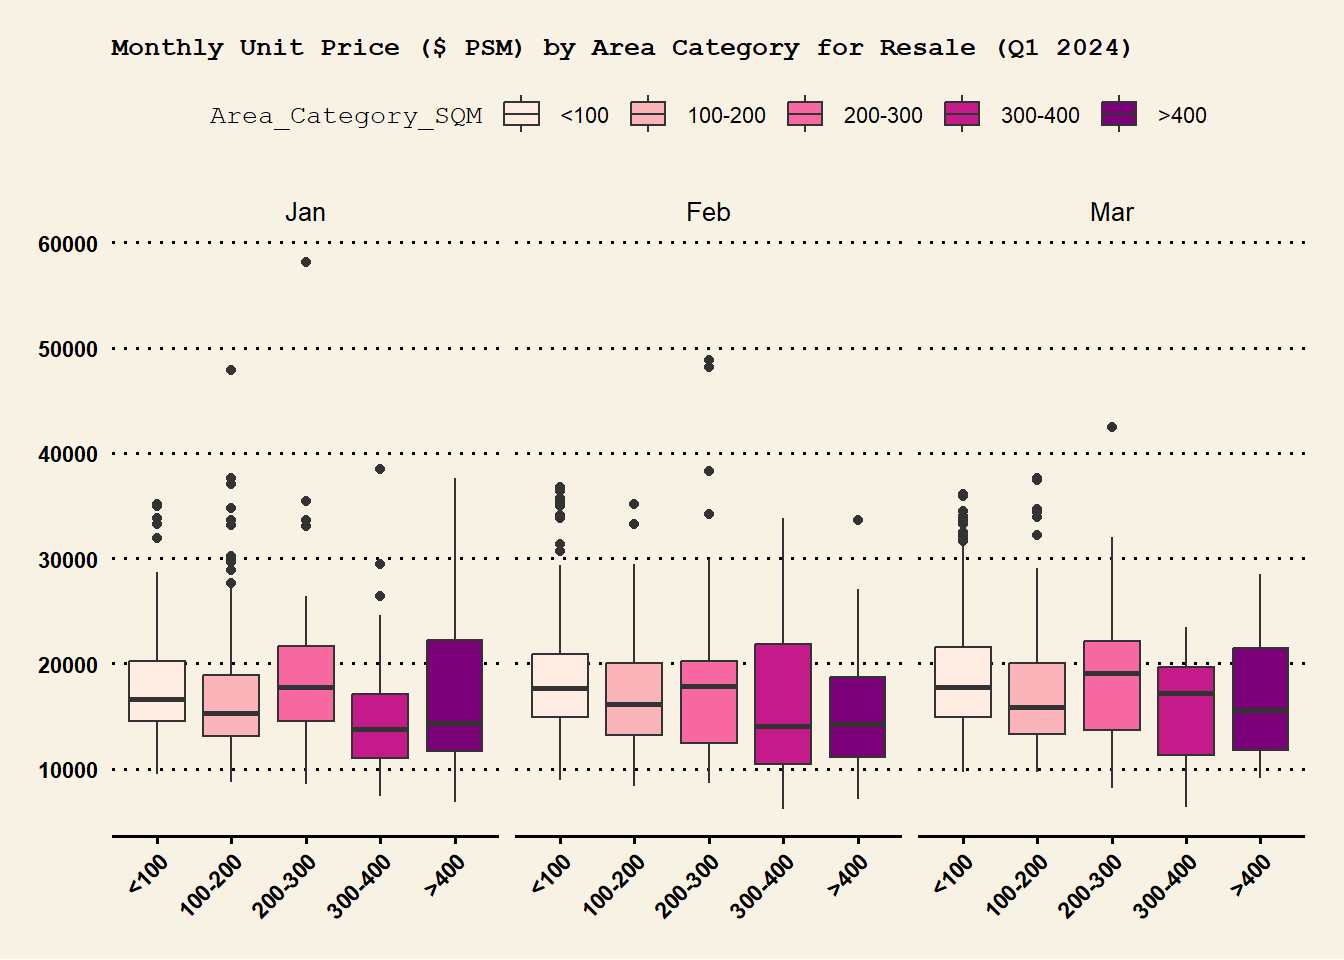
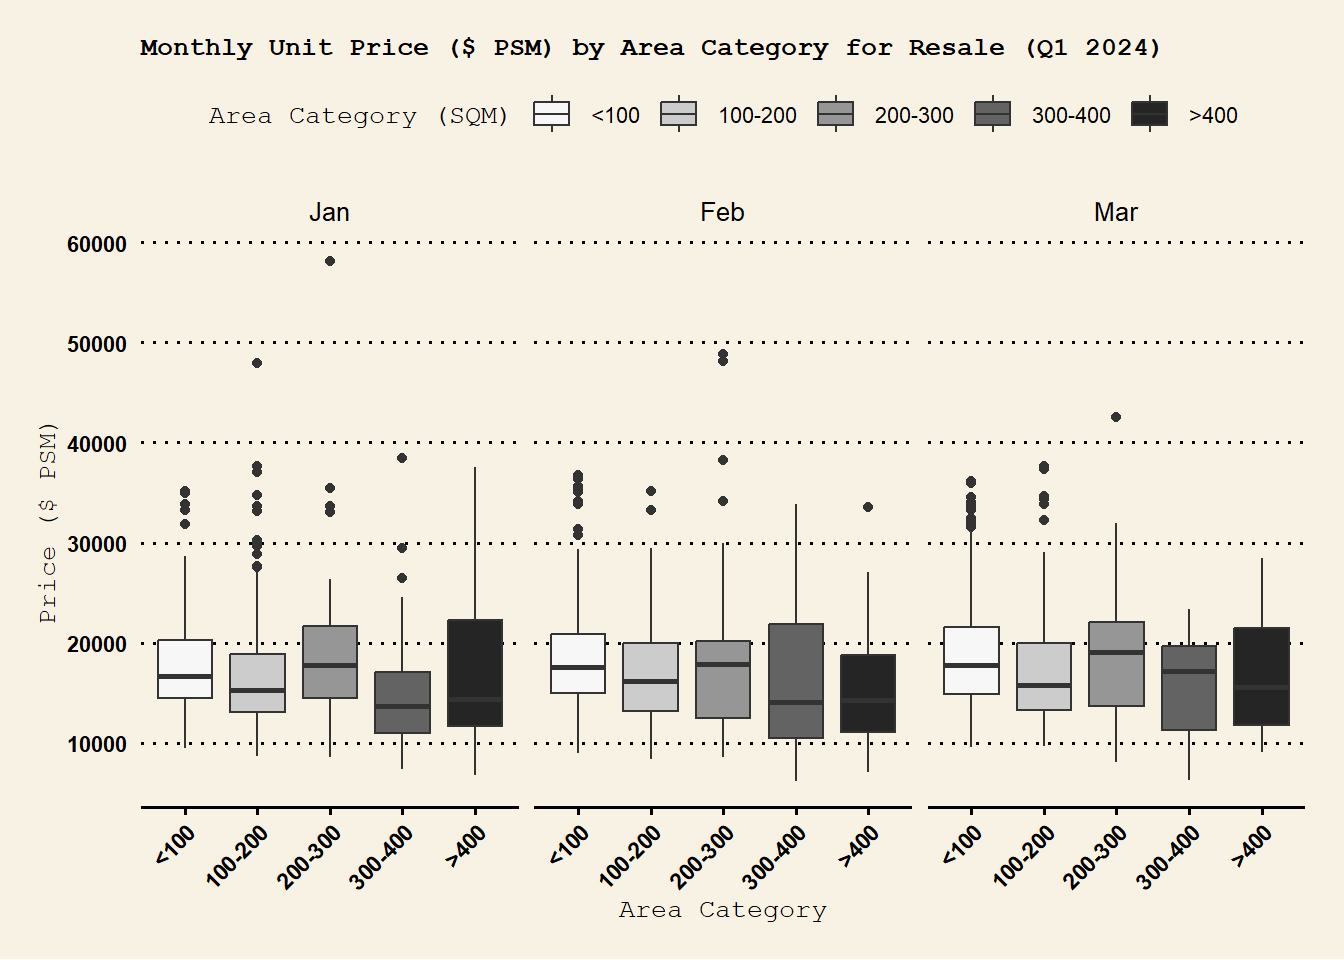
commit after editing take home Ex02

diff --git a/_site/Take-home_Ex/Take-home_Ex02/Take-home_Ex02.html b/_site/Take-home_Ex/Take-home_Ex02/Take-home_Ex02.html
@@ -247,6 +247,7 @@ pre > code.sourceCode > span > a:first-child::before { text-decoration: underlin
   <li><a href="#makeover-visualisation" id="toc-makeover-visualisation" class="nav-link" data-scroll-target="#makeover-visualisation">4.2 Makeover Visualisation</a></li>
   </ul></li>
   <li><a href="#conclusion" id="toc-conclusion" class="nav-link" data-scroll-target="#conclusion">5. Conclusion</a></li>
+  <li><a href="#references" id="toc-references" class="nav-link" data-scroll-target="#references">6. References</a></li>
   </ul>
 </nav>
     </div>
@@ -280,7 +281,7 @@ pre > code.sourceCode > span > a:first-child::before { text-decoration: underlin
     <div>
     <div class="quarto-title-meta-heading">Modified</div>
     <div class="quarto-title-meta-contents">
-      <p class="date-modified">May 2, 2024</p>
+      <p class="date-modified">May 4, 2024</p>
     </div>
   </div>
     
@@ -409,7 +410,7 @@ $ `Planning Region`             &lt;chr&gt; "Central Region", "East Region", "No
 $ `Planning Area`               &lt;chr&gt; "Bukit Merah", "Bedok", "Yishun", "Yishu…</code></pre>
 </div>
 </div>
-<p>Space in column names will create error when used as it is in R code. Hence, replacing them with underscore is necessary. Use <code>gsub()</code> to replace space with underscores and use <code>rename_with()</code> function from <strong>dplyr</strong> <img src="dplyr.png" class="img-fluid" width="53"> to rename all the columns with new column names.</p>
+<p>Replacing space in colume name with underscore. Use <code>gsub()</code> to replace space with underscores and use <code>rename_with()</code> function from <strong>dplyr</strong> <img src="dplyr.png" class="img-fluid" width="53"> to rename all the columns with new column names.</p>
 <div class="cell">
 <div class="sourceCode cell-code" id="cb8"><pre class="sourceCode r code-with-copy"><code class="sourceCode r"><span id="cb8-1"><a href="#cb8-1" aria-hidden="true" tabindex="-1"></a>realis_merge <span class="ot">&lt;-</span> realis_merge <span class="sc">%&gt;%</span></span>
 <span id="cb8-2"><a href="#cb8-2" aria-hidden="true" tabindex="-1"></a>  <span class="fu">rename_with</span>(<span class="sc">~</span> <span class="fu">gsub</span>(<span class="st">" "</span>, <span class="st">"_"</span>, .), <span class="fu">everything</span>())</span></code><button title="Copy to Clipboard" class="code-copy-button"><i class="bi"></i></button></pre></div>
@@ -506,7 +507,7 @@ $ Month                       &lt;ord&gt; Jan, Jan, Jan, Jan, Jan, Jan, Jan, Jan
 </section>
 <section id="create-area-category-column" class="level3">
 <h3 class="anchored" data-anchor-id="create-area-category-column">2.3.4 Create Area Category Column</h3>
-<p>Use <code>mutate()</code>, <code>ifelse()</code> and <code>is.na()</code> to replace NA (missing values) with 0. Next, use <code>mutate()</code> and <code>cut()</code> functions to create area Catergory column (“&lt;100”, “100-200”, “200-300”, “300-400”, “&gt;400”).</p>
+<p>Use <code>mutate()</code>, <code>ifelse()</code> and <code>is.na()</code> to replace NA (missing values) with 0. Next, use <code>mutate()</code> and <code>cut()</code> functions to create area Category column (“&lt;100”, “100-200”, “200-300”, “300-400”, “&gt;400”).</p>
 <div class="tabset-margin-container"></div><div class="panel-tabset">
 <ul class="nav nav-tabs" role="tablist"><li class="nav-item" role="presentation"><a class="nav-link active" id="tabset-3-1-tab" data-bs-toggle="tab" data-bs-target="#tabset-3-1" role="tab" aria-controls="tabset-3-1" aria-selected="true">Code</a></li><li class="nav-item" role="presentation"><a class="nav-link" id="tabset-3-2-tab" data-bs-toggle="tab" data-bs-target="#tabset-3-2" role="tab" aria-controls="tabset-3-2" aria-selected="false">Data Glimpse</a></li></ul>
 <div class="tab-content">
@@ -577,7 +578,7 @@ $ Area_Category_SQM           &lt;fct&gt; &lt;100, &lt;100, &lt;100, &lt;100, &l
 <i class="callout-icon"></i>
 </div>
 <div class="callout-title-container flex-fill">
-Insights
+Insights (Extracted from Original Visualisation Submission)
 </div>
 </div>
 <div class="callout-body-container callout-body">
@@ -591,12 +592,13 @@ Insights
 <ol type="1">
 <li><p>Boxplot for Jan, Feb and Mar are not on same Y axis scale which may be hard to compare the ranges.</p></li>
 <li><p>Boxplot for 3 months in 2024Q1 are labelled as 2024-01-01, 2024-02-01, 2024-03-01 which does not represent the whole month.</p></li>
-<li><p>Line charts are labelled &lt;100, 100-200, 200-300, 300-400, &gt;400 but at first glance it is not clear what these values means. The clarity could be improved by adding a legend or updating labels, for example, from &lt;100 to &lt;100 SQM.</p></li>
+<li><p>Line graphs are labelled &lt;100, 100-200, 200-300, 300-400, &gt;400 but at first glance it is not clear what these values means. The clarity could be improved by adding a legend or updating labels, for example, from &lt;100 to &lt;100 SQM.</p></li>
+<li><p>For line graph, it is not immediately clear at first glance how many quarters the line passes through without looking at x-axis since there is no indicator on the line at each quarter.</p></li>
 </ol>
 <p><u>Aesthetics</u></p>
 <ol type="1">
 <li><p>X axis, Y axis and chart labels (such as 200-300,2024-01-01) are on smaller font size and may be hard to read.</p></li>
-<li><p>Boxplot colors help to distinguish each area category clearly. However, using too many colors on boxplot may be distracting to readers. Suggest using a color palette which does not produce too many contrasting colors.</p></li>
+<li><p>Boxplot colors help to distinguish each area category clearly. However, using too many colors on boxplot may be distracting to readers. Suggest using a color palette which does not produce too many vivid contrasting colors.</p></li>
 <li><p>5 line charts for Quarterly Average Unit Price ($PSM) by Area Category for Resale can be plotted on same Y axis as one chart. This would give a more compact and clean look.</p></li>
 </ol>
 </section>
@@ -608,6 +610,7 @@ Insights
 </section>
 <section id="makeover-visualisation" class="level2">
 <h2 class="anchored" data-anchor-id="makeover-visualisation">4.2 Makeover Visualisation</h2>
+<p>For <u>Quarterly Average Unit Price ($ PSM) by Area Category for Resale</u> plot, Singapore Privare Property Reslae data is need to be prepared first. To get <strong>Resale data</strong> only, use <code>filter()</code> function from <strong>dplyr</strong> to filter from realis_merge data. Use <code>ggplot()</code>, <code>geom_bar()</code> and <code>geom_point()</code> from <strong>ggplot2</strong> <img src="logo.png" class="img-fluid" width="46"> to plot the chart. More functions from ggplot2 are used: <code>labs()</code> functions from ggplot2 are used to set chart title. Use <code>guides()</code> and <code>guide_legend()</code> to update legend title. Use <code>theme()</code> to set text size of chart title, axis text, legend text and legend title. Use <code>theme_wsj()</code> from <strong>ggthemes</strong> to set Wall Street Journal theme.</p>
 <div class="tabset-margin-container"></div><div class="panel-tabset">
 <ul class="nav nav-tabs" role="tablist"><li class="nav-item" role="presentation"><a class="nav-link active" id="tabset-4-1-tab" data-bs-toggle="tab" data-bs-target="#tabset-4-1" role="tab" aria-controls="tabset-4-1" aria-selected="true">Plot</a></li><li class="nav-item" role="presentation"><a class="nav-link" id="tabset-4-2-tab" data-bs-toggle="tab" data-bs-target="#tabset-4-2" role="tab" aria-controls="tabset-4-2" aria-selected="false">Code</a></li></ul>
 <div class="tab-content">
@@ -625,7 +628,7 @@ Insights
 <div id="tabset-4-2" class="tab-pane" role="tabpanel" aria-labelledby="tabset-4-2-tab">
 <div class="cell">
 <div class="sourceCode cell-code" id="cb17"><pre class="sourceCode r code-with-copy"><code class="sourceCode r"><span id="cb17-1"><a href="#cb17-1" aria-hidden="true" tabindex="-1"></a>resale_data <span class="ot">&lt;-</span> realis_merge <span class="sc">%&gt;%</span></span>
-<span id="cb17-2"><a href="#cb17-2" aria-hidden="true" tabindex="-1"></a>  <span class="fu">filter</span>(<span class="st">`</span><span class="at">Type_of_Sale</span><span class="st">`</span> <span class="sc">==</span> <span class="st">"Resale"</span>) </span>
+<span id="cb17-2"><a href="#cb17-2" aria-hidden="true" tabindex="-1"></a>  <span class="fu">filter</span>(Type_of_Sale <span class="sc">==</span> <span class="st">"Resale"</span>) </span>
 <span id="cb17-3"><a href="#cb17-3" aria-hidden="true" tabindex="-1"></a></span>
 <span id="cb17-4"><a href="#cb17-4" aria-hidden="true" tabindex="-1"></a>avg_price_by_quarter_resale <span class="ot">&lt;-</span> resale_data <span class="sc">%&gt;%</span></span>
 <span id="cb17-5"><a href="#cb17-5" aria-hidden="true" tabindex="-1"></a>  <span class="fu">group_by</span>(Area_Category_SQM, Quarter) <span class="sc">%&gt;%</span></span>
@@ -638,18 +641,22 @@ Insights
 <span id="cb17-12"><a href="#cb17-12" aria-hidden="true" tabindex="-1"></a>  <span class="fu">labs</span>(<span class="at">title =</span> <span class="st">"Quarterly Average Unit Price ($ PSM) by Area Category for Resale"</span>,</span>
 <span id="cb17-13"><a href="#cb17-13" aria-hidden="true" tabindex="-1"></a>       <span class="at">x =</span> <span class="st">"Quarter"</span>,</span>
 <span id="cb17-14"><a href="#cb17-14" aria-hidden="true" tabindex="-1"></a>       <span class="at">y =</span> <span class="st">"Average Price ($ PSM)"</span>) <span class="sc">+</span></span>
-<span id="cb17-15"><a href="#cb17-15" aria-hidden="true" tabindex="-1"></a>  <span class="fu">theme_wsj</span>() <span class="sc">+</span></span>
-<span id="cb17-16"><a href="#cb17-16" aria-hidden="true" tabindex="-1"></a>  <span class="fu">theme</span>(<span class="at">plot.title =</span> <span class="fu">element_text</span>(<span class="at">size =</span> <span class="fu">rel</span>(<span class="fl">0.4</span>)),  </span>
-<span id="cb17-17"><a href="#cb17-17" aria-hidden="true" tabindex="-1"></a>        <span class="at">axis.text.x =</span> <span class="fu">element_text</span>(<span class="at">size =</span> <span class="fu">rel</span>(<span class="fl">0.7</span>)),  </span>
-<span id="cb17-18"><a href="#cb17-18" aria-hidden="true" tabindex="-1"></a>        <span class="at">axis.text.y =</span> <span class="fu">element_text</span>(<span class="at">size =</span> <span class="fu">rel</span>(<span class="fl">0.7</span>)),</span>
-<span id="cb17-19"><a href="#cb17-19" aria-hidden="true" tabindex="-1"></a>        <span class="at">legend.text =</span> <span class="fu">element_text</span>(<span class="at">size =</span> <span class="fu">rel</span>(<span class="fl">0.7</span>)),</span>
-<span id="cb17-20"><a href="#cb17-20" aria-hidden="true" tabindex="-1"></a>        <span class="at">legend.title =</span> <span class="fu">element_text</span>(<span class="at">size =</span> <span class="fu">rel</span>(<span class="fl">0.4</span>)))</span>
-<span id="cb17-21"><a href="#cb17-21" aria-hidden="true" tabindex="-1"></a></span>
-<span id="cb17-22"><a href="#cb17-22" aria-hidden="true" tabindex="-1"></a>p_line_resale</span></code><button title="Copy to Clipboard" class="code-copy-button"><i class="bi"></i></button></pre></div>
+<span id="cb17-15"><a href="#cb17-15" aria-hidden="true" tabindex="-1"></a>  <span class="fu">guides</span>(<span class="at">color =</span> <span class="fu">guide_legend</span>(<span class="at">title =</span> <span class="st">"Area Category (SQM)"</span>))<span class="sc">+</span></span>
+<span id="cb17-16"><a href="#cb17-16" aria-hidden="true" tabindex="-1"></a>  <span class="fu">theme_wsj</span>() <span class="sc">+</span></span>
+<span id="cb17-17"><a href="#cb17-17" aria-hidden="true" tabindex="-1"></a>  <span class="fu">theme</span>(<span class="at">plot.title =</span> <span class="fu">element_text</span>(<span class="at">size =</span> <span class="fu">rel</span>(<span class="fl">0.4</span>)),  </span>
+<span id="cb17-18"><a href="#cb17-18" aria-hidden="true" tabindex="-1"></a>        <span class="at">axis.text.x =</span> <span class="fu">element_text</span>(<span class="at">size =</span> <span class="fu">rel</span>(<span class="fl">0.7</span>)),  </span>
+<span id="cb17-19"><a href="#cb17-19" aria-hidden="true" tabindex="-1"></a>        <span class="at">axis.text.y =</span> <span class="fu">element_text</span>(<span class="at">size =</span> <span class="fu">rel</span>(<span class="fl">0.7</span>)),</span>
+<span id="cb17-20"><a href="#cb17-20" aria-hidden="true" tabindex="-1"></a>        <span class="at">axis.title.x =</span> <span class="fu">element_text</span>(<span class="at">size =</span> <span class="fu">rel</span>(<span class="fl">0.4</span>)),</span>
+<span id="cb17-21"><a href="#cb17-21" aria-hidden="true" tabindex="-1"></a>        <span class="at">axis.title.y =</span> <span class="fu">element_text</span>(<span class="at">size =</span> <span class="fu">rel</span>(<span class="fl">0.4</span>)),</span>
+<span id="cb17-22"><a href="#cb17-22" aria-hidden="true" tabindex="-1"></a>        <span class="at">legend.text =</span> <span class="fu">element_text</span>(<span class="at">size =</span> <span class="fu">rel</span>(<span class="fl">0.7</span>)),</span>
+<span id="cb17-23"><a href="#cb17-23" aria-hidden="true" tabindex="-1"></a>        <span class="at">legend.title =</span> <span class="fu">element_text</span>(<span class="at">size =</span> <span class="fu">rel</span>(<span class="fl">0.4</span>)))</span>
+<span id="cb17-24"><a href="#cb17-24" aria-hidden="true" tabindex="-1"></a></span>
+<span id="cb17-25"><a href="#cb17-25" aria-hidden="true" tabindex="-1"></a>p_line_resale</span></code><button title="Copy to Clipboard" class="code-copy-button"><i class="bi"></i></button></pre></div>
 </div>
 </div>
 </div>
 </div>
+<p>Next, <u>Monthly Unit Price ($ PSM) by Area Category for Resale (Q1 2024)</u> plot will be remake and we need to prepare Resale data for first quarter of 2024. To get <strong>2024 Quarter 1</strong> data only, use <code>filter()</code> function from <strong>dplyr</strong> to filter from resale_data. Use <code>ggplot()</code>, <code>geom_boxplot()</code> and <code>geom_jitter()</code> from ggplot2 to plot the chart. <code>facet_wrap()</code> is used to chart 3 months data side by side: Jan and Feb followed by Mar.&nbsp;More functions from ggplot2 are used: <code>labs()</code> functions from ggplot2 are used to set chart title. Use <code>guides()</code> and <code>guide_legend()</code> to update legend title. Use <code>theme()</code> to set text size of chart title, axis text, legend text and legend title. Use <code>theme_wsj()</code> from <strong>ggthemes</strong> to set Wall Street Journal theme. <code>scale_fill_brewer()</code> is used to color the boxplots.</p>
 <div class="tabset-margin-container"></div><div class="panel-tabset">
 <ul class="nav nav-tabs" role="tablist"><li class="nav-item" role="presentation"><a class="nav-link active" id="tabset-5-1-tab" data-bs-toggle="tab" data-bs-target="#tabset-5-1" role="tab" aria-controls="tabset-5-1" aria-selected="true">Plot</a></li><li class="nav-item" role="presentation"><a class="nav-link" id="tabset-5-2-tab" data-bs-toggle="tab" data-bs-target="#tabset-5-2" role="tab" aria-controls="tabset-5-2" aria-selected="false">Code</a></li></ul>
 <div class="tab-content">
@@ -676,14 +683,17 @@ Insights
 <span id="cb18-8"><a href="#cb18-8" aria-hidden="true" tabindex="-1"></a>  <span class="fu">labs</span>(<span class="at">title =</span> <span class="st">"Monthly Unit Price ($ PSM) by Area Category for Resale (Q1 2024)"</span>,</span>
 <span id="cb18-9"><a href="#cb18-9" aria-hidden="true" tabindex="-1"></a>       <span class="at">x =</span> <span class="st">"Area Category"</span>,</span>
 <span id="cb18-10"><a href="#cb18-10" aria-hidden="true" tabindex="-1"></a>       <span class="at">y =</span> <span class="st">"Price ($ PSM)"</span>) <span class="sc">+</span></span>
-<span id="cb18-11"><a href="#cb18-11" aria-hidden="true" tabindex="-1"></a>  <span class="fu">theme_wsj</span>() <span class="sc">+</span></span>
-<span id="cb18-12"><a href="#cb18-12" aria-hidden="true" tabindex="-1"></a>  <span class="fu">theme</span>(<span class="at">plot.title =</span> <span class="fu">element_text</span>(<span class="at">size =</span> <span class="fu">rel</span>(<span class="fl">0.4</span>)),  </span>
-<span id="cb18-13"><a href="#cb18-13" aria-hidden="true" tabindex="-1"></a>        <span class="at">axis.text.x =</span> <span class="fu">element_text</span>(<span class="at">angle =</span> <span class="dv">45</span>, <span class="at">hjust =</span> <span class="dv">1</span>, <span class="at">size =</span> <span class="fu">rel</span>(<span class="fl">0.7</span>)),  </span>
-<span id="cb18-14"><a href="#cb18-14" aria-hidden="true" tabindex="-1"></a>        <span class="at">axis.text.y =</span> <span class="fu">element_text</span>(<span class="at">size =</span> <span class="fu">rel</span>(<span class="fl">0.7</span>)),</span>
-<span id="cb18-15"><a href="#cb18-15" aria-hidden="true" tabindex="-1"></a>        <span class="at">legend.text =</span> <span class="fu">element_text</span>(<span class="at">size =</span> <span class="fu">rel</span>(<span class="fl">0.7</span>)),</span>
-<span id="cb18-16"><a href="#cb18-16" aria-hidden="true" tabindex="-1"></a>        <span class="at">legend.title =</span> <span class="fu">element_text</span>(<span class="at">size =</span> <span class="fu">rel</span>(<span class="fl">0.4</span>)))<span class="sc">+</span></span>
-<span id="cb18-17"><a href="#cb18-17" aria-hidden="true" tabindex="-1"></a>  <span class="fu">scale_fill_brewer</span>(<span class="at">palette =</span> <span class="st">"RdPu"</span>)</span>
-<span id="cb18-18"><a href="#cb18-18" aria-hidden="true" tabindex="-1"></a>p_box_resale</span></code><button title="Copy to Clipboard" class="code-copy-button"><i class="bi"></i></button></pre></div>
+<span id="cb18-11"><a href="#cb18-11" aria-hidden="true" tabindex="-1"></a>  <span class="fu">guides</span>(<span class="at">fill =</span> <span class="fu">guide_legend</span>(<span class="at">title =</span> <span class="st">"Area Category (SQM)"</span>))<span class="sc">+</span></span>
+<span id="cb18-12"><a href="#cb18-12" aria-hidden="true" tabindex="-1"></a>  <span class="fu">theme_wsj</span>() <span class="sc">+</span></span>
+<span id="cb18-13"><a href="#cb18-13" aria-hidden="true" tabindex="-1"></a>  <span class="fu">theme</span>(<span class="at">plot.title =</span> <span class="fu">element_text</span>(<span class="at">size =</span> <span class="fu">rel</span>(<span class="fl">0.4</span>)),  </span>
+<span id="cb18-14"><a href="#cb18-14" aria-hidden="true" tabindex="-1"></a>        <span class="at">axis.text.x =</span> <span class="fu">element_text</span>(<span class="at">angle =</span> <span class="dv">45</span>, <span class="at">hjust =</span> <span class="dv">1</span>, <span class="at">size =</span> <span class="fu">rel</span>(<span class="fl">0.7</span>)),  </span>
+<span id="cb18-15"><a href="#cb18-15" aria-hidden="true" tabindex="-1"></a>        <span class="at">axis.text.y =</span> <span class="fu">element_text</span>(<span class="at">size =</span> <span class="fu">rel</span>(<span class="fl">0.7</span>)),</span>
+<span id="cb18-16"><a href="#cb18-16" aria-hidden="true" tabindex="-1"></a>        <span class="at">axis.title.x =</span> <span class="fu">element_text</span>(<span class="at">size =</span> <span class="fu">rel</span>(<span class="fl">0.4</span>)),</span>
+<span id="cb18-17"><a href="#cb18-17" aria-hidden="true" tabindex="-1"></a>        <span class="at">axis.title.y =</span> <span class="fu">element_text</span>(<span class="at">size =</span> <span class="fu">rel</span>(<span class="fl">0.4</span>)),</span>
+<span id="cb18-18"><a href="#cb18-18" aria-hidden="true" tabindex="-1"></a>        <span class="at">legend.text =</span> <span class="fu">element_text</span>(<span class="at">size =</span> <span class="fu">rel</span>(<span class="fl">0.7</span>)),</span>
+<span id="cb18-19"><a href="#cb18-19" aria-hidden="true" tabindex="-1"></a>        <span class="at">legend.title =</span> <span class="fu">element_text</span>(<span class="at">size =</span> <span class="fu">rel</span>(<span class="fl">0.4</span>)))<span class="sc">+</span></span>
+<span id="cb18-20"><a href="#cb18-20" aria-hidden="true" tabindex="-1"></a>  <span class="fu">scale_fill_brewer</span>(<span class="at">palette =</span> <span class="st">"Greys"</span>)</span>
+<span id="cb18-21"><a href="#cb18-21" aria-hidden="true" tabindex="-1"></a>p_box_resale</span></code><button title="Copy to Clipboard" class="code-copy-button"><i class="bi"></i></button></pre></div>
 </div>
 </div>
 </div>
@@ -692,6 +702,10 @@ Insights
 </section>
 <section id="conclusion" class="level1">
 <h1>5. Conclusion</h1>
+</section>
+<section id="references" class="level1">
+<h1>6. References</h1>
+<p><a href="https://ggplot2-book.org/facet.html">Faceting</a></p>
 
 
 </section>
